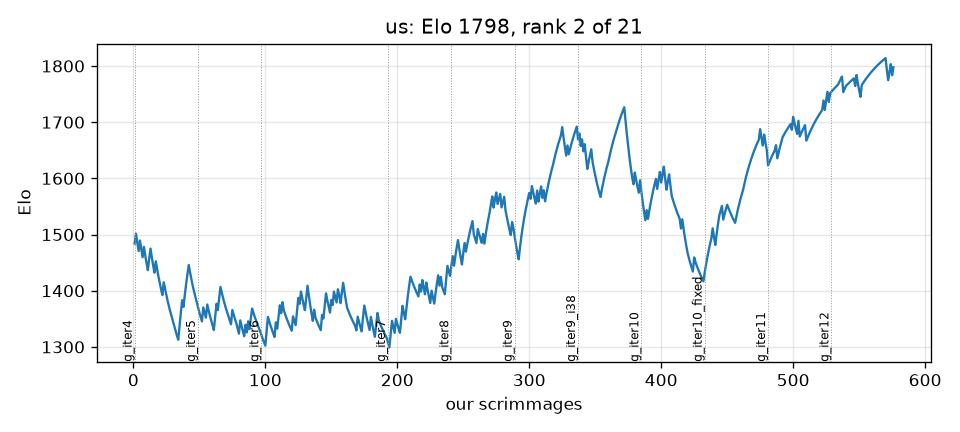
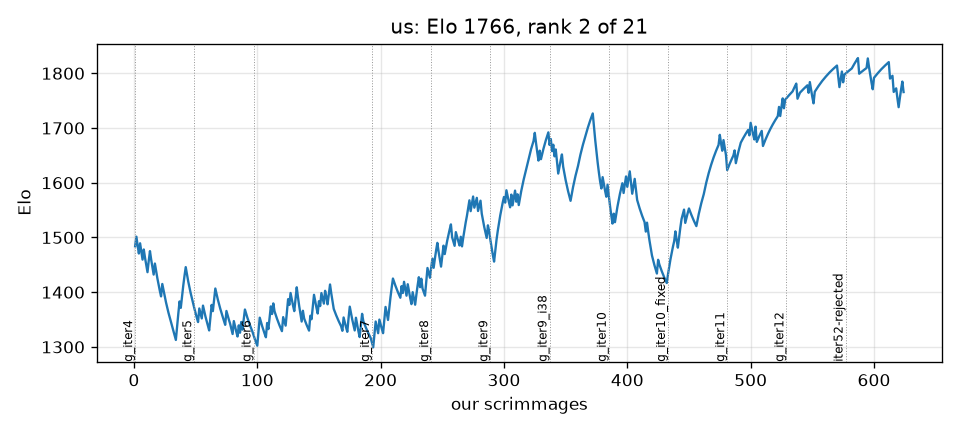
Iteration 52 REJECTED at the ladder block (38/48, counter unchanged): src/bot reverted to g_iter12; block recorded
Claude-Session: https://claude.ai/code/session_01VgeNHsn9ncLsLui8RaK6L7

diff --git a/src/bot/EC.java b/src/bot/EC.java
@@ -74,12 +74,11 @@ public strictfp class EC extends Robot {
         }
         if (round > C.SAVE_UNTIL) saveDone = true;
         if (econDanger) econDangerRounds++;
-        int floor = (C.HOLD_MIN > 0 && round >= C.HOLD_FROM_ROUND && inf >= C.HOLD_MIN + 46) ? Math.max(C.HOLD_MIN, Math.min(C.HOLD_CAP, inf / C.HOLD_FRAC)) : 0;   // Iteration 52: hit points, not budget
-        if (rc.isReady()) build(Math.max(0, inf - floor), danger, econDanger); prof[5] = Clock.getBytecodeNum();
+        if (rc.isReady()) build(inf, danger, econDanger); prof[5] = Clock.getBytecodeNum();
         doBid(); prof[6] = Clock.getBytecodeNum();
         updateBroadcast(danger); prof[7] = Clock.getBytecodeNum();
         profLog(prof[7]);
-        if (round % 50 == 0) Debug.log("@econ inf=" + rc.getInfluence() + " votes=" + rc.getTeamVotes() + " sl=" + slanderers + " g=" + guards + " sc=" + scouts + " cap=" + capturers + " idle=" + idleRounds + " noTile=" + blockedRounds + " spend=" + spendBuilds + " eDanger=" + (econDangerRounds) + " save=" + saveRounds + " bid=" + bid + " eVotes~" + enemyVotesEst + " sym=" + MapState.sym + " bounds=" + MapState.minX + "," + MapState.maxX + "," + MapState.minY + "," + MapState.maxY + " eEC=" + MapState.nEnemy + " nEC=" + MapState.nNeutral + " heardN=" + heardNeutral + " refusedN=" + refusedNeutral + " heardOwn=" + heardOwn + " heardOwnId=" + heardOwnId + " sibIds=" + MapState.nOwnId + " nearReads=" + nearbyReads + " orderRounds=" + orderRounds + " flipInt=" + flipIntents + " presumeSkip=" + presumedSkips + " saveBidSkip=" + saveBidSkipped + " saveAband=" + saveAbandonedRound + " capReads=" + capReads + " heardE=" + heardEnemy + " own=" + MapState.nOwn + " ownT=" + ownTiles() + " refusedE=" + refusedEnemy + " safeStops=" + safeStops + " sent=" + Integer.bitCount(sentMask) + " floor=" + ((C.HOLD_MIN > 0 && round >= C.HOLD_FROM_ROUND && rc.getInfluence() >= C.HOLD_MIN + 46) ? Math.max(C.HOLD_MIN, Math.min(C.HOLD_CAP, rc.getInfluence() / C.HOLD_FRAC)) : 0));
+        if (round % 50 == 0) Debug.log("@econ inf=" + rc.getInfluence() + " votes=" + rc.getTeamVotes() + " sl=" + slanderers + " g=" + guards + " sc=" + scouts + " cap=" + capturers + " idle=" + idleRounds + " noTile=" + blockedRounds + " spend=" + spendBuilds + " eDanger=" + (econDangerRounds) + " save=" + saveRounds + " bid=" + bid + " eVotes~" + enemyVotesEst + " sym=" + MapState.sym + " bounds=" + MapState.minX + "," + MapState.maxX + "," + MapState.minY + "," + MapState.maxY + " eEC=" + MapState.nEnemy + " nEC=" + MapState.nNeutral + " heardN=" + heardNeutral + " refusedN=" + refusedNeutral + " heardOwn=" + heardOwn + " heardOwnId=" + heardOwnId + " sibIds=" + MapState.nOwnId + " nearReads=" + nearbyReads + " orderRounds=" + orderRounds + " flipInt=" + flipIntents + " presumeSkip=" + presumedSkips + " saveBidSkip=" + saveBidSkipped + " saveAband=" + saveAbandonedRound + " capReads=" + capReads + " heardE=" + heardEnemy + " own=" + MapState.nOwn + " ownT=" + ownTiles() + " refusedE=" + refusedEnemy + " safeStops=" + safeStops);
     }
 
     // ---------------------------------------------------------------- production
@@ -140,7 +139,6 @@ public strictfp class EC extends Robot {
             Debug.log("@open1 slanderer r=" + round + " size=" + cost);
         }
         else if (scouts < C.EARLY_SCOUTS && round < 60) { t = RobotType.MUCKRAKER; cost = 1; role = Roles.SCOUT; }
-        else if (C.SENTINELS > 0 && round >= 30 && inf >= 2 && (cheapIdx = missingDiagonal()) >= 0) { t = RobotType.MUCKRAKER; cost = 1; role = Roles.SENTINEL; sentinelTarget = loc.translate(DIAG_DX[cheapIdx], DIAG_DY[cheapIdx]); }   // Iteration 52
         else if (danger && guards < 2 && inf >= 20) { t = RobotType.POLITICIAN; cost = Math.min(inf - 5, 30); role = Roles.GUARD; }
         else if (C.SAVE_MODE && !saveDone && round <= C.SAVE_UNTIL && (cheapIdx = cheapNeutral()) >= 0) {
             int best = cheapIdx, price = MapState.neutralInf[best] + 14 + C.SAVE_BANK;
@@ -155,7 +153,7 @@ public strictfp class EC extends Robot {
                 return;
             }
         }
-        else if ((cheapIdx = captureAffordable(inf)) >= 0) { captureTargetIdx = cheapIdx; t = RobotType.POLITICIAN; cost = MapState.neutralInf[captureTargetIdx] + 14 + C.CAPTURE_BANK; role = Roles.CAPTURE; Debug.log("@capbuild r=" + round + " cost=" + cost + " home=" + (birth <= 1)); }
+        else if ((cheapIdx = captureAffordable(inf)) >= 0) { captureTargetIdx = cheapIdx; t = RobotType.POLITICIAN; cost = MapState.neutralInf[captureTargetIdx] + 14; role = Roles.CAPTURE; Debug.log("@capbuild r=" + round + " cost=" + cost + " home=" + (birth <= 1)); }
         else if (MapState.nEnemy > 0 && enemyEcInf > 0 && inf - reserve() >= Math.max(200, enemyEcInf / 2) && capturers < 3 && !presumed(MapState.enemyEC[0])) { captureTargetIdx = -1; t = RobotType.POLITICIAN; cost = Math.min(inf - reserve(), enemyEcInf + 40); role = Roles.CAPTURE; }
         else if (!econDanger && slanderers < C.MAX_SLANDERERS && Econ.bestSize(inf - reserve()) >= C.MIN_SLANDERER_SIZE && (guards >= slanderers / 3)) { t = RobotType.SLANDERER; cost = Econ.bestSize(Math.min(inf - reserve(), C.MAX_SLANDERER_SIZE)); role = Roles.ECON; }
         else if (inf >= 20 && (guards < C.GUARD_BASE + slanderers / 2 || (danger && guards < C.MAX_GUARDS))) { t = RobotType.POLITICIAN; cost = Math.min(Math.max(20, inf / 4), 60); role = Roles.GUARD; }
@@ -181,12 +179,11 @@ public strictfp class EC extends Robot {
         if (d == null) { blockedRounds++; return; }
         rc.buildRobot(t, d, cost);
         RobotInfo nb = rc.senseRobotAtLocation(loc.add(d));
-        if (nb != null && nChild < MAX_CHILDREN) { childId[nChild] = nb.ID; childType[nChild] = role; childBirth[nChild] = round; childTgt[nChild] = role == Roles.SENTINEL ? sentinelTarget : (role == Roles.CAPTURE && captureTargetIdx >= 0) ? MapState.neutralEC[captureTargetIdx] : null; nChild++; }
-        if (role == Roles.SENTINEL) sentMask |= 1 << diagIndex(sentinelTarget);
+        if (nb != null && nChild < MAX_CHILDREN) { childId[nChild] = nb.ID; childType[nChild] = role; childBirth[nChild] = round; childTgt[nChild] = (role == Roles.CAPTURE && captureTargetIdx >= 0) ? MapState.neutralEC[captureTargetIdx] : null; nChild++; }
         switch (role) { case Roles.SCOUT: case Roles.HUNT: scouts++; break; case Roles.GUARD: guards++; break; case Roles.ECON: slanderers++; break; case Roles.CAPTURE: capturers++; break; default: break; }
         lastBuildRound = round;
         // tell the newborn its role via our flag for one round: ORDER with target
-        MapLocation tgt = role == Roles.SENTINEL ? sentinelTarget : role == Roles.CAPTURE ? (captureTargetIdx >= 0 ? MapState.neutralEC[captureTargetIdx] : MapState.enemyEC[0]) : loc;
+        MapLocation tgt = role == Roles.CAPTURE ? (captureTargetIdx >= 0 ? MapState.neutralEC[captureTargetIdx] : MapState.enemyEC[0]) : loc;
         // a robot spawned this round takes its FIRST turn next round (the engine iterates a snapshot of the
         // spawn order), so the order must still be on the flag next round; the EC cannot build again before that
         // Iteration 48 dose 4: only a CAPTURE needs an order -- it is the one build whose target the newborn
@@ -195,7 +192,7 @@ public strictfp class EC extends Robot {
         // centre that builds most rounds broadcast its map knowledge to nobody. Measured: captured centres read
         // thousands of nearby flags and heard ZERO neutral reports in their whole lives; home's own scouts never
         // learned the list from home either.
-        if (role == Roles.CAPTURE || role == Roles.SENTINEL || C.HANDOFF == 0) { pendingOrder = Comms.encode(Comms.ORDER, role, tgt); pendingOrderRound = round + 1; }
+        if (role == Roles.CAPTURE || C.HANDOFF == 0) { pendingOrder = Comms.encode(Comms.ORDER, role, tgt); pendingOrderRound = round + 1; }
         Debug.log("@spawn t=" + t.ordinal() + " inf=" + cost + " role=" + role + " dir=" + d + " ecInf=" + rc.getInfluence());
     }
     private int pendingOrder = 0, pendingOrderRound = -10;
@@ -214,7 +211,7 @@ public strictfp class EC extends Robot {
     private int captureAffordable(int inf) {
         int best = -1, bestCost = 1 << 30;
         for (int i = MapState.nNeutral; --i >= 0;) {
-            int c = MapState.neutralInf[i] + 14 + C.CAPTURE_BANK;   // Iteration 52: the new centre is born with the bank
+            int c = MapState.neutralInf[i] + 14;
             if (c > inf - reserve() || c >= bestCost || capturers >= C.MAX_CAPTURERS) continue;
             if (claimed(MapState.neutralEC[i])) continue;   // a live capturer is already walking there
             if (presumed(MapState.neutralEC[i])) { presumedSkips++; continue; }   // Iteration 49: a child announced its flip
@@ -245,7 +242,6 @@ public strictfp class EC extends Robot {
             if (role == Roles.ECON && nearestEnemy != null) s += Math.sqrt(n.distanceSquaredTo(nearestEnemy.location)) * 0.5;
             if (role == Roles.ECON && MapState.nEnemy > 0) s += Math.sqrt(n.distanceSquaredTo(MapState.enemyEC[0])) * 0.3;
             if (role == Roles.SCOUT) s += nextInt(3);   // spread scouts
-            if (role == Roles.SENTINEL && sentinelTarget != null) s += n.equals(sentinelTarget) ? 100 : -Math.sqrt(n.distanceSquaredTo(sentinelTarget));   // straight onto its tile if free
             if (role == Roles.GUARD && nearestEnemy != null) s -= Math.sqrt(n.distanceSquaredTo(nearestEnemy.location)) * 0.5;
             if (role == Roles.CAPTURE) { MapLocation tg = captureTargetIdx >= 0 ? MapState.neutralEC[captureTargetIdx] : (MapState.nEnemy > 0 ? MapState.enemyEC[0] : null); if (tg != null) s -= Math.sqrt(n.distanceSquaredTo(tg)) * 0.7; }
             if (s > bs) { bs = s; best = d; }
@@ -253,24 +249,15 @@ public strictfp class EC extends Robot {
         return best;
     }
 
-    // Iteration 52: the four diagonal tiles, and which of them a live sentinel is assigned to
-    private int sentMask = 0;
-    private static final int[] DIAG_DX = {1, 1, -1, -1}, DIAG_DY = {1, -1, 1, -1};
-    private int diagIndex(MapLocation t) { int dx = t.x - loc.x, dy = t.y - loc.y; for (int i = 0; i < 4; i++) if (DIAG_DX[i] == dx && DIAG_DY[i] == dy) return i; return 0; }
-    private MapLocation sentinelTarget = null;
-    private int missingDiagonal() throws GameActionException {
-        for (int i = 0; i < C.SENTINELS && i < 4; i++) if ((sentMask & (1 << i)) == 0) { MapLocation t = loc.translate(DIAG_DX[i], DIAG_DY[i]); if (rc.onTheMap(t)) return i; }
-        return -1;
-    }
     private int countAlive() {
         // recount children via canGetFlag (5 bytecodes each); compact the list only once a child has died --
         // Iteration 50: copying four arrays for 96 live children every build turn was ~4k of a 20k budget
-        int k = 0; int sl = 0, g = 0, sc = 0, cap = 0; nCapIdx = 0; boolean gap = false; sentMask = 0;
+        int k = 0; int sl = 0, g = 0, sc = 0, cap = 0; nCapIdx = 0; boolean gap = false;
         for (int i = 0; i < nChild; i++) {
             if (childType[i] == Roles.ECON && round - childBirth[i] >= 300) childType[i] = Roles.GUARD;   // camouflage expired: it guards now
             if (!rc.canGetFlag(childId[i])) { gap = true; continue; }
             if (gap) { childId[k] = childId[i]; childType[k] = childType[i]; childBirth[k] = childBirth[i]; childTgt[k] = childTgt[i]; }
-            switch (childType[k]) { case Roles.SCOUT: case Roles.HUNT: sc++; break; case Roles.GUARD: g++; break; case Roles.ECON: sl++; break; case Roles.CAPTURE: cap++; if (nCapIdx < MAX_CAPIDX) capIdx[nCapIdx++] = k; break; case Roles.SENTINEL: if (childTgt[k] != null) sentMask |= 1 << diagIndex(childTgt[k]); break; default: break; }
+            switch (childType[k]) { case Roles.SCOUT: case Roles.HUNT: sc++; break; case Roles.GUARD: g++; break; case Roles.ECON: sl++; break; case Roles.CAPTURE: cap++; if (nCapIdx < MAX_CAPIDX) capIdx[nCapIdx++] = k; break; default: break; }
             k++;
         }
         nChild = k; slanderers = sl; guards = g; scouts = sc; capturers = cap;

diff --git a/src/bot/C.java b/src/bot/C.java
@@ -127,22 +127,6 @@ public final class C {
     // child list compacted only on a death, each flag value absorbed once a turn, and sibling/neighbour reads
     // moved to the off-turn (the centre builds every other round).
     public static final int OFFTURN_READS = 1;          // 0 = read every turn (Iteration 49)
-    // Iteration 52 (hold what we take): in the eight losses of the g_iter12 block we gained 72 centres and lost 60,
-    // and 34 of the 60 fell within 100 rounds of taking them (TheSnack 12 of 17) -- to speeches whose overshoot
-    // was 1-30, i.e. the centre held almost nothing. A centre's influence is its hit points: a capture priced at
-    // neutral+14 is born with ~4 and spends even that on its first slanderer, so any 20-conviction politician flips
-    // it for free while each recapture costs us 264-514. Two doses: the capturer carries a bank the new centre is
-    // born with, and every centre keeps a floor of influence unspent after the opening.
-    // Arm 1 on the fixed-seed Superposition mirror (60 bank, 60 floor): null -- 18 of 20 captures still fell within
-    // 100 rounds (baseline 19 of 21), because the mirror's capturers arrive with 250-500 conviction and the overshoots
-    // simply grew. The engine splits a speech equally over every unit in its radius, so the cheap defence is
-    // dilution: four 1-influence muckrakers parked on the centre's DIAGONAL tiles cut an adjacent attacker's share
-    // by 3x or more and leave the four orthogonal spawn tiles free. The floor is proportional so a rich centre keeps
-    // real hit points and a poor one can still grow; the capture bank lets a newborn afford its first slanderer.
-    public static final int CAPTURE_BANK = 110;         // added to a capturer's price; the new centre starts with it (0 = g_iter12)
-    public static final int HOLD_MIN = 60, HOLD_CAP = 300, HOLD_FRAC = 4;   // floor = clamp(inf / 4, 60..300), applied once inf >= HOLD_MIN + 46 (0 = g_iter12: HOLD_MIN = 0)
-    public static final int HOLD_FROM_ROUND = 50;
-    public static final int SENTINELS = 4;              // per centre, on its diagonal tiles (0 = g_iter12)
     public static final int SAVE_MAX_WAIT = 80;         // give up after this many waiting rounds (0 = never)
     // (b) Home never learns that a centre it targeted became ours: the capturer dies in the flip and nobody
     //     else was there. HexesAndOhms: heardOwn=0 for 100 rounds after the r97 flip, nine 165-influence

diff --git a/src/bot/Muckraker.java b/src/bot/Muckraker.java
@@ -15,11 +15,8 @@ public strictfp class Muckraker extends Robot {
 
     Muckraker(RobotController rc) { super(rc); }
 
-    private MapLocation post = null;   // Iteration 52: a sentinel's diagonal tile
     @Override protected void init() throws GameActionException {
         super.init();
-        int f = readHome();
-        if (f >= 0 && Comms.type(f) == Comms.ORDER && Comms.extra(f) == Roles.SENTINEL) { post = Comms.loc(f, loc); Debug.log("@sentinel post=" + (post.x - loc.x) + "," + (post.y - loc.y)); }
         // heading: away from home through our spawn tile
         heading = MapState.home != null ? MapState.home.directionTo(loc) : DIRS[nextInt(8)];
         if (heading == Direction.CENTER) heading = DIRS[nextInt(8)];
@@ -46,13 +43,6 @@ public strictfp class Muckraker extends Robot {
         else setFlag(cycleFacts());
 
         if (!rc.isReady()) return;
-        if (post != null) {   // Iteration 52: hold the post; expose what comes in range, never leave
-            RobotInfo v = null;
-            for (int i = nEnemy; --i >= 0;) { RobotInfo r = enemies[i]; if (r.type == RobotType.SLANDERER && loc.distanceSquaredTo(r.location) <= 12 && (v == null || r.influence > v.influence)) v = r; }
-            if (v != null && rc.canExpose(v.ID)) { rc.expose(v.ID); return; }
-            if (!loc.equals(post)) { nav.setTarget(post); nav.step(); }
-            return;
-        }
         // expose the most valuable slanderer in range
         RobotInfo best = null;
         for (int i = nEnemy; --i >= 0;) { RobotInfo r = enemies[i]; if (r.type == RobotType.SLANDERER && loc.distanceSquaredTo(r.location) <= 12 && (best == null || r.influence > best.influence)) best = r; }

diff --git a/test/bot/ConstantsTest.java b/test/bot/ConstantsTest.java
@@ -29,9 +29,6 @@ public class ConstantsTest {
         check(C.SAVE_MAX_WAIT >= 0 && C.SAVE_MAX_WAIT < C.SAVE_UNTIL, "the save wait bound must fall inside the save window");
         check(C.PRESUME_ROUNDS > 0 && C.PRESUME_ROUNDS <= 300, "a flip presumption lasts a bounded, positive time");
         check(C.SAVE_NO_BID == 0 || C.SAVE_MAX_WAIT > 0, "a silent save must at least be bounded");
-        check(C.CAPTURE_BANK >= 0 && C.HOLD_MIN >= 0 && C.HOLD_CAP >= C.HOLD_MIN && C.HOLD_FRAC > 0, "the held floor is a modest, non-negative sum");
-        check(C.SENTINELS >= 0 && C.SENTINELS <= 4, "at most one sentinel per diagonal");
-        check(C.CAPTURE_BANK == 0 || C.CAPTURE_BANK >= C.HOLD_MIN + 41, "a newborn centre can afford its floor and a first slanderer");
         check(C.SCOUT_MAX >= C.SCOUT_BASE, "the scout ceiling is not below its own base");
         check(C.SCOUT_BASE + 1500 / C.SCOUT_PER_ROUND >= C.SCOUT_MAX,
               "the cap actually reaches its ceiling within a game, or the ceiling is dead weight");

diff --git a/src/bot/Roles.java b/src/bot/Roles.java
@@ -8,5 +8,4 @@ public final class Roles {
     public static final int ECON = 3;
     public static final int CAPTURE = 4;
     public static final int HUNT = 5;
-    public static final int SENTINEL = 6;   // Iteration 52: a 1-influence muckraker parked on a diagonal tile of its centre, to dilute capture speeches
 }

diff --git a/progress/ELO.md b/progress/ELO.md
@@ -1,18 +1,18 @@
 # Elo ladder
 
-576 scrimmages (ours only); K=32 from 1500; our team is **us**: rank 2 of 21 rated bots, Elo 1798, 576 games; 45 bots not yet met.
+624 scrimmages (ours only); K=32 from 1500; our team is **us**: rank 2 of 21 rated bots, Elo 1766, 624 games; 45 bots not yet met.
 
 | rank | bot | Elo | games | W-L (theirs) |
 |---|---|---|---|---|
-| 1 | awesomelemonade.sprint1bot | 1841 | 72 | 64-8 |
-| 2 | **us** | 1798 | 576 | 286-290 |
-| 3 | rzhan11.sprint2 | 1728 | 72 | 55-17 |
+| 1 | awesomelemonade.sprint1bot | 1859 | 78 | 68-10 |
+| 2 | **us** | 1766 | 624 | 324-300 |
+| 3 | rzhan11.sprint2 | 1735 | 78 | 58-20 |
 | 4 | rqi3.qualification_bot | 1641 | 12 | 11-1 |
 | 5 | BSreenivas0713.musketeerplayerfinal | 1569 | 6 | 5-1 |
 | 6 | iyzg.sbot17 | 1561 | 6 | 5-1 |
 | 7 | VittalT.final_usqualplayer3_subm | 1552 | 6 | 4-2 |
 | 8 | StoneT2000.sprinttuna | 1531 | 6 | 3-3 |
-| 9 | Scott-Poole.spright8 | 1476 | 72 | 38-34 |
+| 9 | Scott-Poole.spright8 | 1486 | 78 | 39-39 |
 | 10 | naalit.mukrush | 1458 | 6 | 0-6 |
 | 11 | unai-gurbindo.camelmanplayer | 1451 | 6 | 0-6 |
 | 12 | raytran.dlmoreram010921 | 1448 | 6 | 0-6 |
@@ -20,10 +20,10 @@
 | 14 | qawsedrftgzh.battlecode2021 | 1435 | 6 | 0-6 |
 | 15 | ChiragKalra.gen5 | 1429 | 6 | 0-6 |
 | 16 | astelmach20.piedPiper | 1422 | 6 | 0-6 |
-| 17 | iliao2345.attacker | 1386 | 54 | 24-30 |
-| 18 | jmerle.camel_case_v7_sprint_2 | 1362 | 66 | 26-40 |
-| 19 | max-titov.sprintplayer | 1338 | 54 | 16-38 |
-| 20 | 123kevinlee.atomFinalQualifier | 1323 | 54 | 22-32 |
-| 21 | arya-k.quals_v1 | 1313 | 54 | 17-37 |
+| 17 | max-titov.sprintplayer | 1386 | 60 | 18-42 |
+| 18 | iliao2345.attacker | 1370 | 60 | 24-36 |
+| 19 | jmerle.camel_case_v7_sprint_2 | 1349 | 72 | 26-46 |
+| 20 | 123kevinlee.atomFinalQualifier | 1312 | 60 | 22-38 |
+| 21 | arya-k.quals_v1 | 1302 | 60 | 17-43 |
 
 Not yet met (1500 until their first game against us): Ahhorse1.WinstonPlayer, Aryan34.bot, Aryo-Patel.finalBot, BattlecodeTeam4.robotalpha, BoluAdubi.bot1, BryceKan3.bot.tournament.sprint, IvanGeffner.thirtyone, JCRaymond.bot.tournament.sprint, JasonYe4273.finals, Mahpare.hackatrainee_v1, OliverMKing.bot.tournament.sprint, SLaGrave.AlphaCentauri, Sihal3.cavShieldv705, TeamSerpentine.mars, Techno-coder.muckrakers, TylerQube.sandmenplayer, Victoriano012.SprintBot2, abhishekshree.bot2, aidan-mundy.final_usqualplayer3_subm, alextheimer.player, ama29.v6, angelaloh09.camelmanplayer, anshgs.ho4, davidfang00.Rushbot3, diegorod9000.Newcomer, dominicmkennedy.playerj3, edlwang.sprint2, ehiggins98.initialbot, evan-schott.bugplayer, jay20162016.ecobot, mama4294.Maloneplayer, mhahn2003.finals, mhbtz1.presprint, mvpatel2000.biden, nickel-dime.piedPiper, nsortur.piedPiper, paulmure.sprintplayer, pranayagra.finalbot11, ryanbai1412.sprint_0, saivivekvenna.Ba_ba_booie, sasank02.framework3_mr_density, thevaliantthird.bot1, winkelmantanner.tannerplayer, woodstockcs.fanandflag, wstan2001.boundfinder

diff --git a/TRAINING_LOG.md b/TRAINING_LOG.md
@@ -5514,3 +5514,13 @@ losses lacked and what the opponents that beat us punish. 48 games on the fixed 
 (`gauntlet/ladder-i52.log`), read against g_iter12's 40/48: strong-bot record (5/12) and captures
 lost within 100 rounds (34 of 60 in losses) are the pre-registered counters; the SPRT vs g_iter12
 follows if the block earns it, and a worse block reverts `src/bot` to `src/g_iter12`.
+
+## Iteration 52 REJECTED at the ladder block: 38/48 (79.2%), counter unchanged (2026-09-22 10:15 UTC)
+
+Against g_iter12's 40/48 on the same field: awesomelemonade 2/6 (same), rzhan11 3/6 (same),
+max-titov 6/6 -> 4/6, the rest as before. The pre-registered counter did not move: in the ten
+losses we gained 85 centres, lost 63, **35 within 100 rounds of taking them** (g_iter12's block:
+72 / 60 / 34). Sentinels and the floor changed nothing about how the external bots retake our
+centres; the mirror gain (5 centres to 3 on the fixed seed) did not carry. Null, not
+reinterpreted: `src/bot` reverted to `src/g_iter12`. The 48 games are recorded as
+`iter52-rejected` (they are our games and count for the ladder): 624 scrimmages (ours only); K=32 from 1500; our team is **us**: rank 2 of 21 rated bots, Elo 1766, 624 games; 45 bots not yet met.

diff --git a/HANDOFF.md b/HANDOFF.md
@@ -1,4 +1,4 @@
-# Handoff -- the state of the loop (updated 2026-09-22 10:30 UTC)
+# Handoff -- the state of the loop (updated 2026-09-22 10:15 UTC)
 
 Read `CLAUDE.md`, then `METHOD.md` (how this project measures things, portable
 across years), then this file, then the tail of `TRAINING_LOG.md`.
@@ -57,9 +57,9 @@ across years), then this file, then the tail of `TRAINING_LOG.md`.
 
 ## State right now (2026-09-21 22:45 UTC)
 
-- **In flight: Iteration 52 ladder block** (`gauntlet/ladder-i52.log`; `src/bot` = g_iter12 +
-  sentinels/floor/capture bank, TRAINING_LOG 2026-09-22 10:30). Read it against 40/48; SPRT
-  vs g_iter12 if it earns it, else revert `src/bot` from `src/g_iter12`.
+- Iteration 52 (sentinels on the diagonals, proportional floor, capture bank 110) **rejected at
+  the ladder block, 38/48**, counter unchanged (35 of 63 captures lost within 100 rounds). The
+  branch `iter52` keeps the code. `src/bot` = `g_iter12` again.
 - **Submission: `g_iter12`** = g_iter11 + Iteration 49 (flip intent, presume, abort report,
   stamped ownership claims) + Iteration 50 (bid while saving, vote-estimate init at birth,
   bytecode cuts) + Iteration 51 (save mode off). Snapshotted 2026-09-22 on combined evidence:

diff --git a/PROMPTS.md b/PROMPTS.md
@@ -400,3 +400,9 @@ Following up on earlier conversations, I'd like you to focus your enhanced intel
 > task check.  If the VM is idle and you're not working on anything, come up with a new idea.  Otherwise, continue as you are
 
 > task check.  If the VM is idle and you're not working on anything, come up with a new idea.  Otherwise, continue as you are
+
+> task check.  If the VM is idle and you're not working on anything, come up with a new idea.  Otherwise, continue as you are
+
+> task check.  If the VM is idle and you're not working on anything, come up with a new idea.  Otherwise, continue as you are
+
+> task check.  If the VM is idle and you're not working on anything, come up with a new idea.  Otherwise, continue as you are
